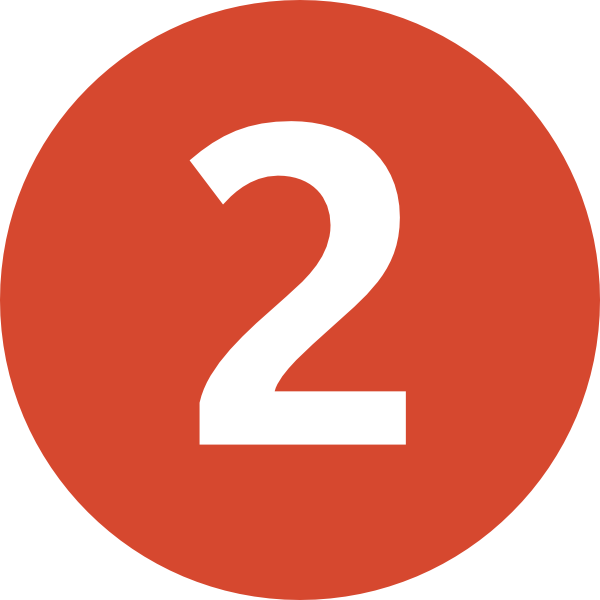
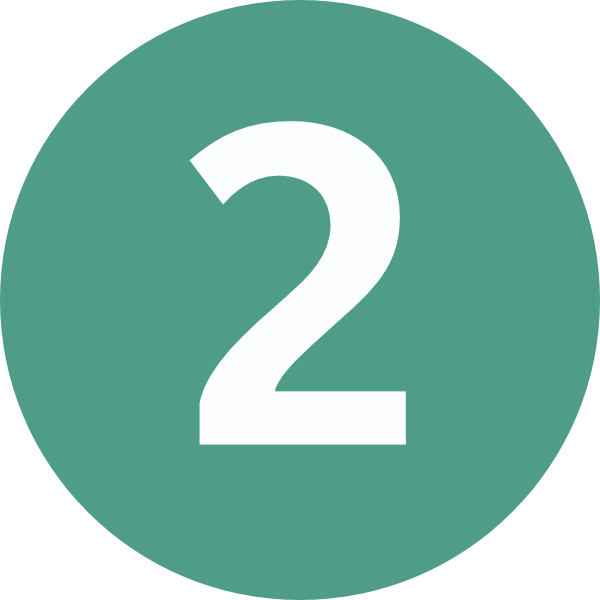
Made the Interface look better; added colorful turn indicator; added acting; added rehearsing; added taking roles

diff --git a/DeadwoodGUI.java b/DeadwoodGUI.java
@@ -13,6 +13,14 @@ import java.util.InputMismatchException;
  */
 public class DeadwoodGUI {
 
+    public static final Color GRAYBROWN = new Color(242, 235, 228);
+    public static final Color LIGHTBROWN = new Color(246, 216, 158);
+    public static final Color REDBROWN = new Color(209, 112, 48);
+    public static final Color[] PLAYERCOLORS = {
+            new Color(207, 20, 43),
+            new Color(79, 156, 137),
+            new Color(59, 73, 110)};
+
     private JFrame frame;
     private JLayeredPane pane;
     private MouseListener listener;
@@ -31,13 +39,14 @@ public class DeadwoodGUI {
         frame = new JFrame("Deadwood");
         frame.setDefaultCloseOperation(WindowConstants.EXIT_ON_CLOSE);
         pane = frame.getLayeredPane();
+
         JLabel boardLabel = new JLabel();
         boardLabel.setIcon(new ImageIcon(getImage("board.jpg")));
         boardWidth = boardLabel.getIcon().getIconWidth();
         boardHeight = boardLabel.getIcon().getIconHeight();
         boardLabel.setBounds(0, 0, boardWidth, boardHeight);
         frame.setSize(boardWidth + 300, boardHeight + Deadwood.PLAYER_TOKEN_SIZE);
-        pane.add(boardLabel, new Integer(0));
+        pane.add(boardLabel, 0);
 
         frame.setVisible(true);
     }
@@ -83,14 +92,19 @@ public class DeadwoodGUI {
    }
 
     public int promptNumPlayers() {
+        int numPlayers;
         try {
-            return Integer.parseInt(JOptionPane.showInputDialog(frame, "Please enter number of Players",
-                    "New Game", JOptionPane.QUESTION_MESSAGE));
+            String[] options = {"Two Player Game", "Three Player Game"};
+            JPanel panel = new JPanel();
+            int opt = JOptionPane.showOptionDialog(null, "Welcome to Deadwood", "New Game",
+                    JOptionPane.DEFAULT_OPTION, JOptionPane.QUESTION_MESSAGE, null, options, 0);
+            numPlayers = opt + 2;
         }
         catch (Exception ex) {
             displayException(ex);
             return -1;
         }
+        return numPlayers;
     }
 
     private void setUpButtons() {
@@ -105,19 +119,19 @@ public class DeadwoodGUI {
 
 
         takeRoleButton = new DeadwoodJButton("Take Role",boardWidth + Deadwood.PLAYER_TOKEN_SIZE, 120);
-        takeRoleButton.setVisible(false);
-        moveButton.addActionListener(new ActionListener() {
+        takeRoleButton.setEnabled(false);
+        takeRoleButton.addActionListener(new ActionListener() {
             @Override
             public void actionPerformed(ActionEvent actionEvent) {
-                String chosenRole = "";
-                //Player selects chosenRole
-                Deadwood.takeRole(chosenRole);
+                Role r = promptRole();
+                if (r != null)
+                    Deadwood.takeRole(r);
             }
         });
         pane.add(takeRoleButton);
 
-        actButton = new DeadwoodJButton("Act", boardWidth + Deadwood.PLAYER_TOKEN_SIZE, 120);
-        actButton.setVisible(false);
+        actButton = new DeadwoodJButton("Act", boardWidth + Deadwood.PLAYER_TOKEN_SIZE, 230);
+        actButton.setEnabled(false);
         actButton.addActionListener(new ActionListener() {
             @Override
             public void actionPerformed(ActionEvent actionEvent) {
@@ -126,8 +140,8 @@ public class DeadwoodGUI {
         });
         pane.add(actButton);
 
-        rehearseButton = new DeadwoodJButton("Rehearse", boardWidth + Deadwood.PLAYER_TOKEN_SIZE, 230);
-        rehearseButton.setVisible(false);
+        rehearseButton = new DeadwoodJButton("Rehearse", boardWidth + Deadwood.PLAYER_TOKEN_SIZE, 340);
+        rehearseButton.setEnabled(false);
         rehearseButton.addActionListener(new ActionListener() {
             @Override
             public void actionPerformed(ActionEvent actionEvent) {
@@ -136,8 +150,8 @@ public class DeadwoodGUI {
         });
         pane.add(rehearseButton);
 
-        upRankButton = new DeadwoodJButton("Upgrade Rank", boardWidth + 50, 340);
-        upRankButton.setVisible(false);
+        upRankButton = new DeadwoodJButton("Upgrade Rank", boardWidth + 50, 450);
+        upRankButton.setEnabled(false);
         upRankButton.addActionListener(new ActionListener() {
             @Override
             public void actionPerformed(ActionEvent actionEvent) {
@@ -146,8 +160,8 @@ public class DeadwoodGUI {
         });
         pane.add(upRankButton);
 
-        endTurnButton = new DeadwoodJButton("End Turn", boardWidth + 50, 450);
-        endTurnButton.setVisible(true);
+        endTurnButton = new DeadwoodJButton("End Turn", boardWidth + 50, 560);
+        endTurnButton.setEnabled(true);
         endTurnButton.addActionListener(new ActionListener() {
             @Override
             public void actionPerformed(ActionEvent actionEvent) {
@@ -158,24 +172,31 @@ public class DeadwoodGUI {
     }
 
     private void updateButtons() {
-        moveButton.setVisible(Deadwood.getCurrentPlayer().canMove());
-        takeRoleButton.setVisible(Deadwood.getCurrentPlayer().canTakeRole());
-        actButton.setVisible(Deadwood.getCurrentPlayer().canAct());
-        rehearseButton.setVisible(Deadwood.getCurrentPlayer().canRehearse());
-        upRankButton.setVisible(Deadwood.getCurrentPlayer().canRankUp());
+        moveButton.setEnabled(Deadwood.getCurrentPlayer().canMove());
+        takeRoleButton.setEnabled(Deadwood.getCurrentPlayer().canTakeRole());
+        actButton.setEnabled(Deadwood.getCurrentPlayer().canAct());
+        rehearseButton.setEnabled(Deadwood.getCurrentPlayer().canRehearse());
+        upRankButton.setEnabled(Deadwood.getCurrentPlayer().canRankUp());
+
     }
 
     private void setUpPlayerInfo() {
         activePlayerInfo = new JLabel();
         activePlayerInfo.setText(Deadwood.getCurrentPlayer().getStatus());
-        activePlayerInfo.setBounds(boardWidth + 50, 550, 200, 60);
-        activePlayerInfo.setVisible(true);
+        activePlayerInfo.setHorizontalAlignment(SwingConstants.CENTER);
+        activePlayerInfo.setBounds(boardWidth + 10, 700, 280, 160);
+        activePlayerInfo.setForeground(Color.white);
+        activePlayerInfo.setBackground(PLAYERCOLORS[0]);
+        activePlayerInfo.setOpaque(true);
         pane.add(activePlayerInfo);
+
     }
 
     private void updatePlayerInfo() {
         activePlayerInfo.setText(Deadwood.getCurrentPlayer().getStatus());
-        activePlayerInfo.setVisible(true);
+        activePlayerInfo.setHorizontalAlignment(SwingConstants.CENTER);
+        activePlayerInfo.setBackground(PLAYERCOLORS[Deadwood.getCurrentPlayer().getNumber()]);
+        activePlayerInfo.setOpaque(true);
     }
 
     public void setUpPlayers() {
@@ -223,5 +244,15 @@ public class DeadwoodGUI {
         }
         return (String)JOptionPane.showInputDialog(null, "Where would you like to move?",
                     "Move", JOptionPane.QUESTION_MESSAGE, null, options, options[0]);
+    }
+
+    public Role promptRole () {
+        ArrayList<Role> availableRoles = Deadwood.getAvailableRoles();
+        Object[] options = new Object[availableRoles.size()];
+        for (int i = 0; i < availableRoles.size(); i++) {
+            options[i] = availableRoles.get(i);
+        }
+        return (Role)JOptionPane.showInputDialog(null, "Which role would you like to take?",
+                "Move", JOptionPane.QUESTION_MESSAGE, null, options, options[0]);
     }
 }

diff --git a/Deadwood.java b/Deadwood.java
@@ -1,5 +1,6 @@
 import java.util.ArrayList;
 import java.util.InputMismatchException;
+import java.util.Iterator;
 import java.util.Scanner;
 public class Deadwood {
 
@@ -42,6 +43,27 @@ public class Deadwood {
         return game.getCurrentPlayer().getCurrentLocation().getNeighbors();
     }
 
+    public static ArrayList<Role> getAvailableRoles() {
+        int rank = game.getCurrentPlayer().getRank();
+        ArrayList<Role> roles = game.getCurrentPlayer().getCurrentLocation().getSet().getLocalRoles();
+        ArrayList<Role> cardRoles = game.getCurrentPlayer().getCurrentLocation().getSet().getCard().getRoles();
+        roles.addAll(cardRoles);
+        Iterator<Role> itr = roles.iterator();
+        while (itr.hasNext()) {
+            Role r = itr.next();
+            if ((r.getRankRequirement() > game.getCurrentPlayer().getRank()) || r.getFilled()) {
+                itr.remove();
+            }
+        }
+        for (int i = 0; i < roles.size(); i++) {
+            if (roles.get(i).getRankRequirement() > game.getCurrentPlayer().getRank() || roles.get(i).getFilled()) {
+                roles.remove(i);
+                i--;
+            }
+        }
+        return roles;
+    }
+
     public static int getTurn() {
         return game.getTurn();
     }
@@ -52,12 +74,18 @@ public class Deadwood {
     }
 
     public static void rankUp() {
+
+        gui.update();
     }
 
     public static void rehearse() {
+        game.getCurrentPlayer().rehearse();
+        gui.update();
     }
 
     public static void act() {
+        game.getCurrentPlayer().actAttempt();
+        gui.update();
     }
 
     public static void move(String locationName) {
@@ -65,8 +93,9 @@ public class Deadwood {
         gui.update();
     }
 
-    public static void takeRole(String chosenRole) {
-        
+    public static void takeRole(Role chosenRole) {
+        getCurrentPlayer().takeRole(chosenRole);
+        gui.update();
     }
 
     /*

diff --git a/Player.java b/Player.java
@@ -3,6 +3,8 @@
 **/
 public class Player implements Comparable<Player> {
     private String name;
+    private int number;
+
     private int rank;
     private int cash;
     private int credits;
@@ -13,8 +15,9 @@ public class Player implements Comparable<Player> {
     private boolean hasAction;
     private boolean working;
 
-    public Player(String name, Location location) {
-        this.name = name;
+    public Player(int playerNumber, Location location) {
+        this.number = playerNumber;
+        this.name = "Player " + Integer.toString(playerNumber + 1);
         this.rank = 1;
         this.cash = 0;
         this.credits = 0;
@@ -24,15 +27,15 @@ public class Player implements Comparable<Player> {
         this.working = false;
     }
 
-    public String toString() {
-        return name;
-    }
+    public String toString() { return name; }
+
+    public int getNumber() { return number; }
 
     public String getStatus() {
         String s = String.format("<html>%s, Rank %d<br>" +
             "Set: %s<br>Role: %s<br>" +
-            "%d dollars, %d credits<br><html>",
-            name, rank, currentLocation, currentRole, cash, credits);
+            "%d dollars, %d credits<br>%d rehearsal tokens<html>",
+            name, rank, currentLocation.getName(), currentRole, cash, credits, rehearsalTokens);
         return s;
     }
 
@@ -162,7 +165,7 @@ public class Player implements Comparable<Player> {
     }
 
     public boolean canTakeRole() {
-        return (!working && currentRole == null && currentLocation.hasSet());
+        return (!working && currentRole == null && currentLocation.hasSet() && Deadwood.getAvailableRoles().size() > 0);
     }
 
     public boolean canRehearse() {

diff --git a/GameSystem.java b/GameSystem.java
@@ -12,6 +12,7 @@ public class GameSystem {
     private CardDeck cardDeck;
     private int day;
     private int turn;
+    private boolean gameDone;
 
     public static final int[] RANK_UP_REQUIREMENTS_CASH = {4, 10, 18, 28, 40};
     public static int[] RANK_UP_REQUIREMENTS_CREDITS = {5, 10, 15, 20, 25};
@@ -21,6 +22,7 @@ public class GameSystem {
     }
 
     public void setUpGame() throws Exception {
+        gameDone = false;
         day = 1;
         turn = 0;
         cardDeck = new CardDeck();
@@ -33,7 +35,7 @@ public class GameSystem {
 
         players = new Player[numPlayers];
         for (int i = 0; i < numPlayers; i++) {
-            players[i] = new Player("Player " + Integer.toString(i + 1), board.findLocation("Trailer"));
+            players[i] = new Player(i, board.findLocation("Trailer"));
         }
     }
 
@@ -48,6 +50,8 @@ public class GameSystem {
     }
 
     public int getDay() { return day; }
+
+    public boolean isGameDone() { return gameDone; }
 
     public int getNumPlayers() {
         return numPlayers;
@@ -110,13 +114,8 @@ public class GameSystem {
     }
 
     public Player[] endGame(){
-        /*System.out.println("The game is over!\n");
         Arrays.sort(players);
-        System.out.printf("Player %s is the winner!\n", players[0]);
-        System.out.println("Leaderboard: ");
-        for(int i = 0; i < players.length; i++)
-            System.out.printf("%d. %s - %d points\n", i+1, players[i], players[i].getVictoryPoints());*/
-        Arrays.sort(players);
+        gameDone = true;
         return players;
     }
 }

diff --git a/Card.java b/Card.java
@@ -5,10 +5,10 @@ import java.util.ArrayList;
 public class Card {
     private String name;
     private String desc;
-    private ArrayList<StarringRole> roles;
+    private ArrayList<Role> roles;
     private int budget;
 
-    public Card(String name, String desc, ArrayList<StarringRole> roles, int budget) {
+    public Card(String name, String desc, ArrayList<Role> roles, int budget) {
         this.name = name;
         this.desc = desc;
         this.roles = roles;
@@ -27,7 +27,7 @@ public class Card {
         return desc;
     }
 
-    public ArrayList<StarringRole> getRoles() {
+    public ArrayList<Role> getRoles() {
         return roles;
     }
 

diff --git a/ParseXML.java b/ParseXML.java
@@ -130,7 +130,7 @@ public class ParseXML{
             Card currentCard;
             for (int i = 0; i < cards.getLength(); i++) {
                 //reads data from the nodes
-                ArrayList<StarringRole> roles = new ArrayList<>();
+                ArrayList<Role> roles = new ArrayList<>();
                 Node currentNode = cards.item(i);
                 String name = currentNode.getAttributes().getNamedItem("name").getNodeValue();
                 int budget =  Integer.parseInt(currentNode.getAttributes().getNamedItem("budget").getNodeValue());

diff --git a/Set.java b/Set.java
@@ -45,7 +45,7 @@ public class Set {
 
     public void wrap() {
         System.out.println("Wrapping Scene:");
-        ArrayList<StarringRole> rolesOnCard = card.getRoles();
+        ArrayList<Role> rolesOnCard = card.getRoles();
         if(card.hasActor()) {
             ArrayList<Integer> rolls = new ArrayList<>();
             for(int i = 0; i < card.getBudget(); i++) {

diff --git a/Role.java b/Role.java
@@ -15,7 +15,7 @@ public abstract class Role {
     }
 
     public String toString() {
-        return String.format("%s - \"%s\" (Rank %d)", name, desc, rankRequirement);
+        return String.format("%s (Rank %d)", name, rankRequirement);
     }
 
     public String getName() {
